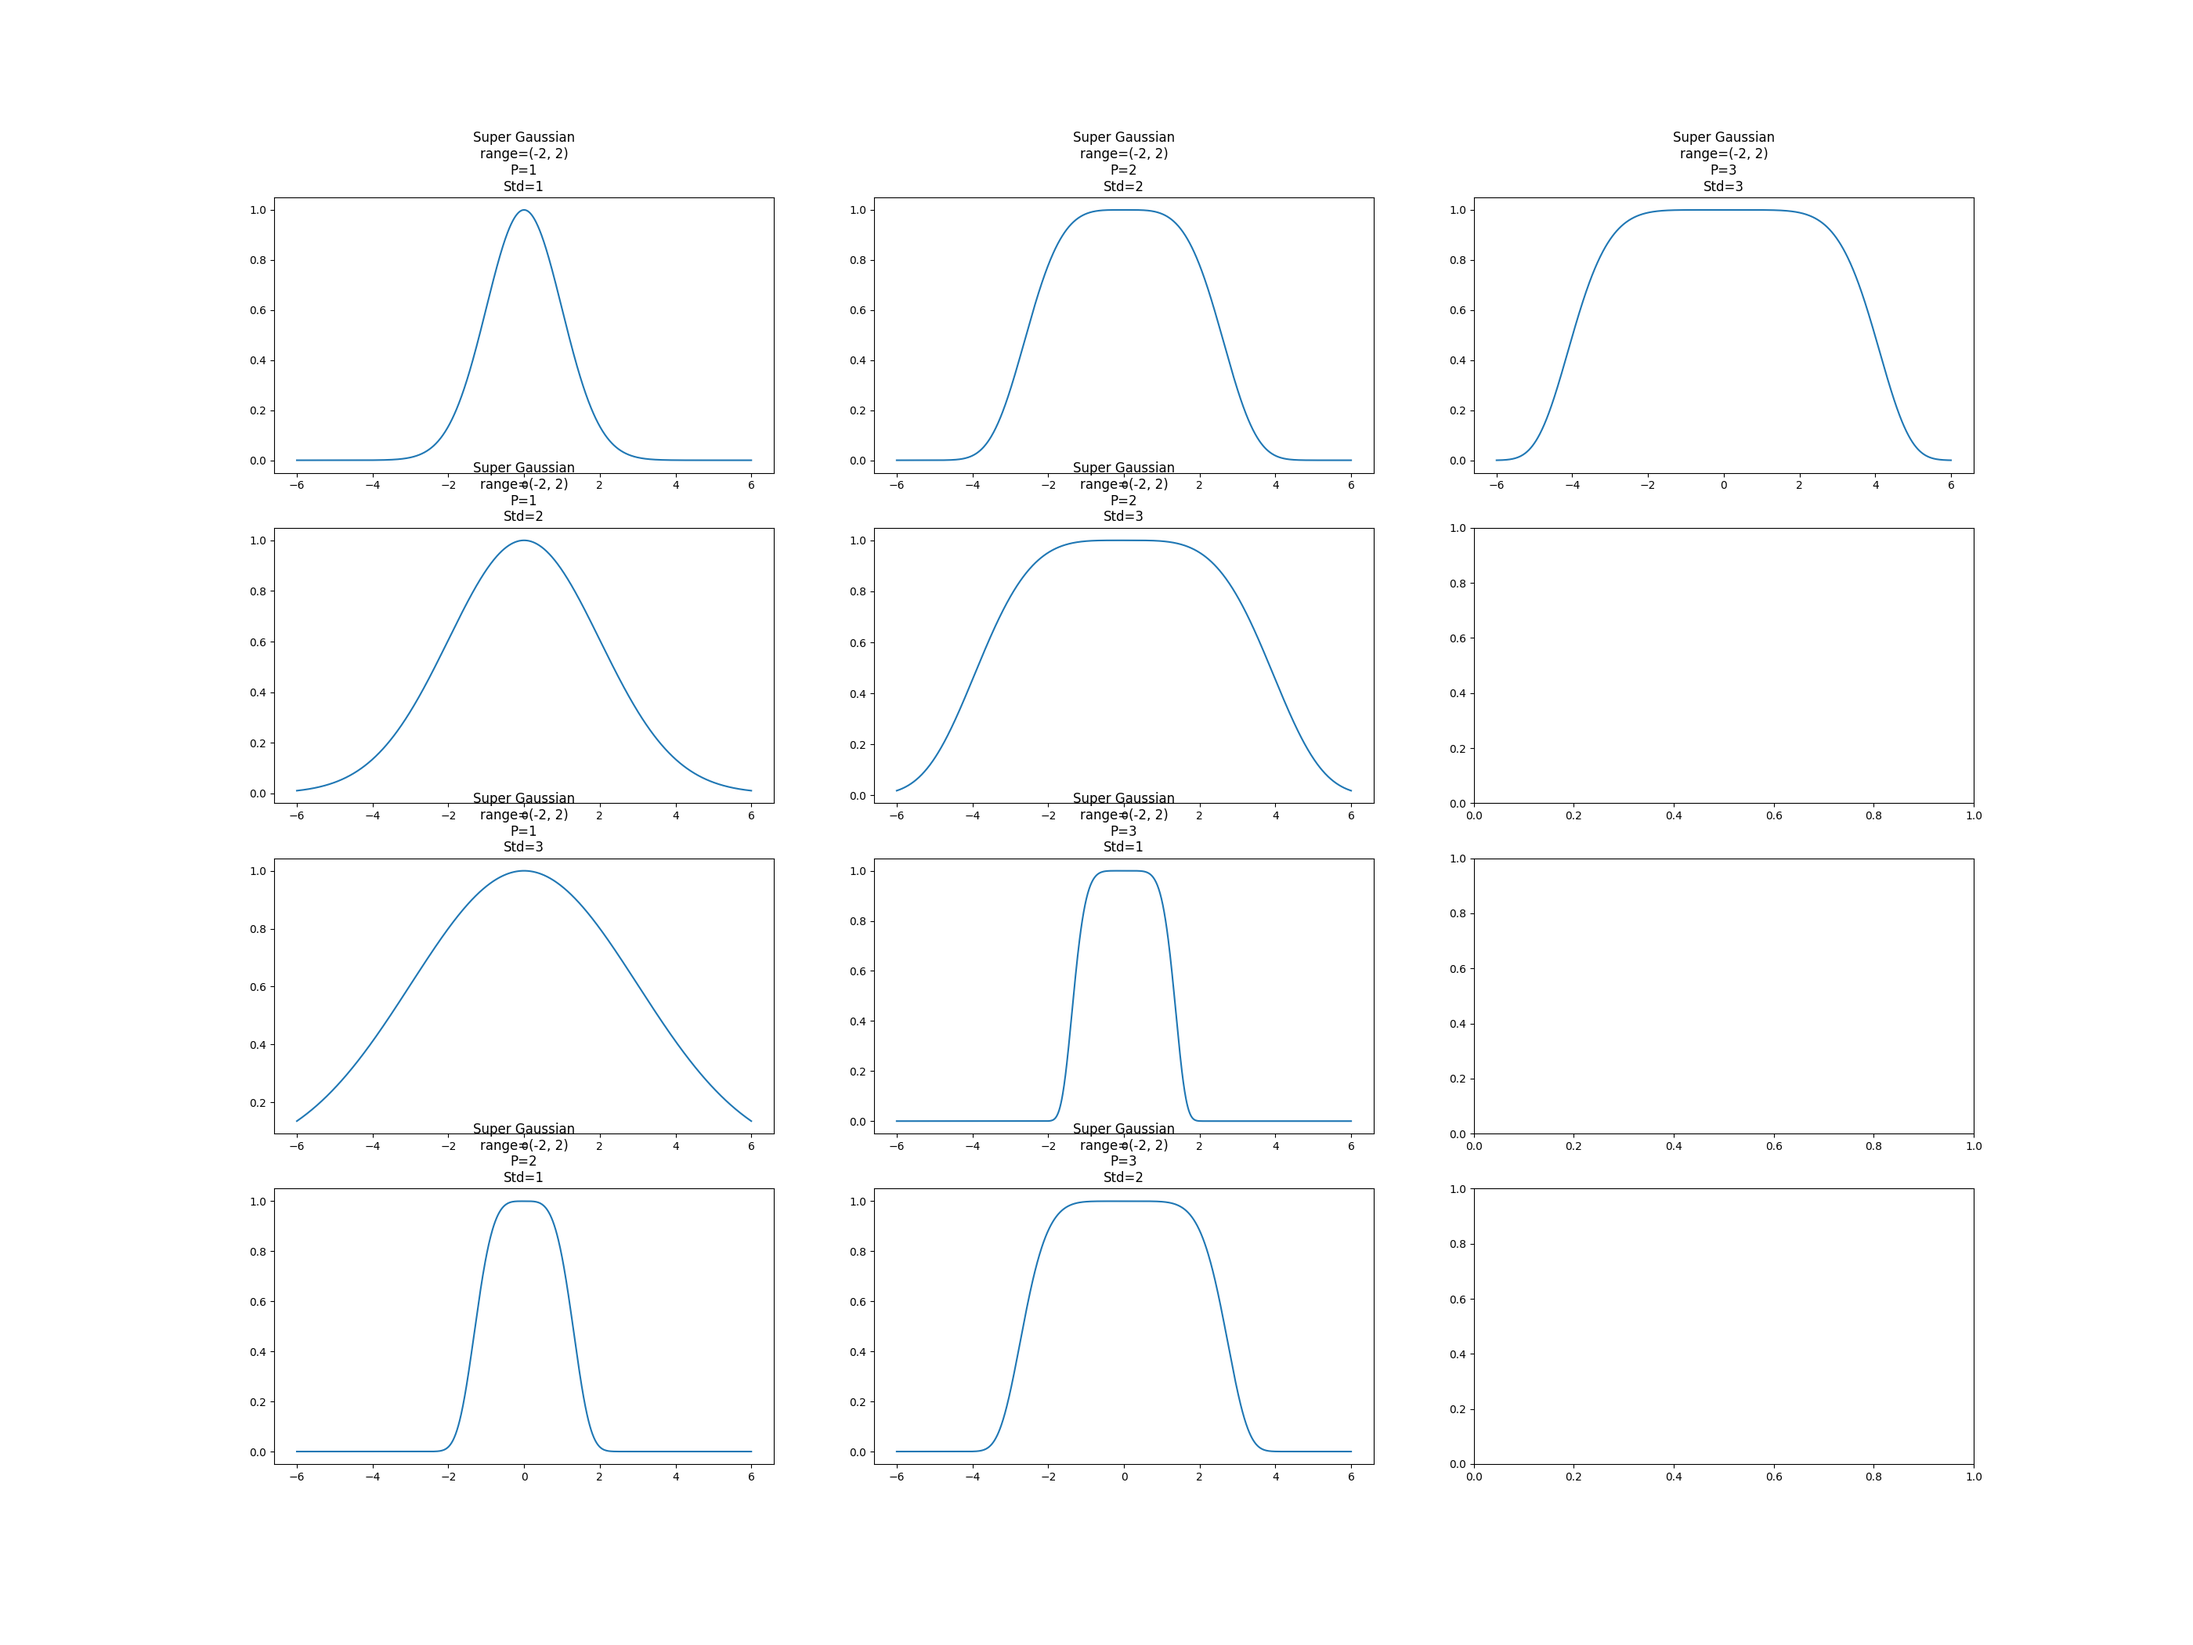
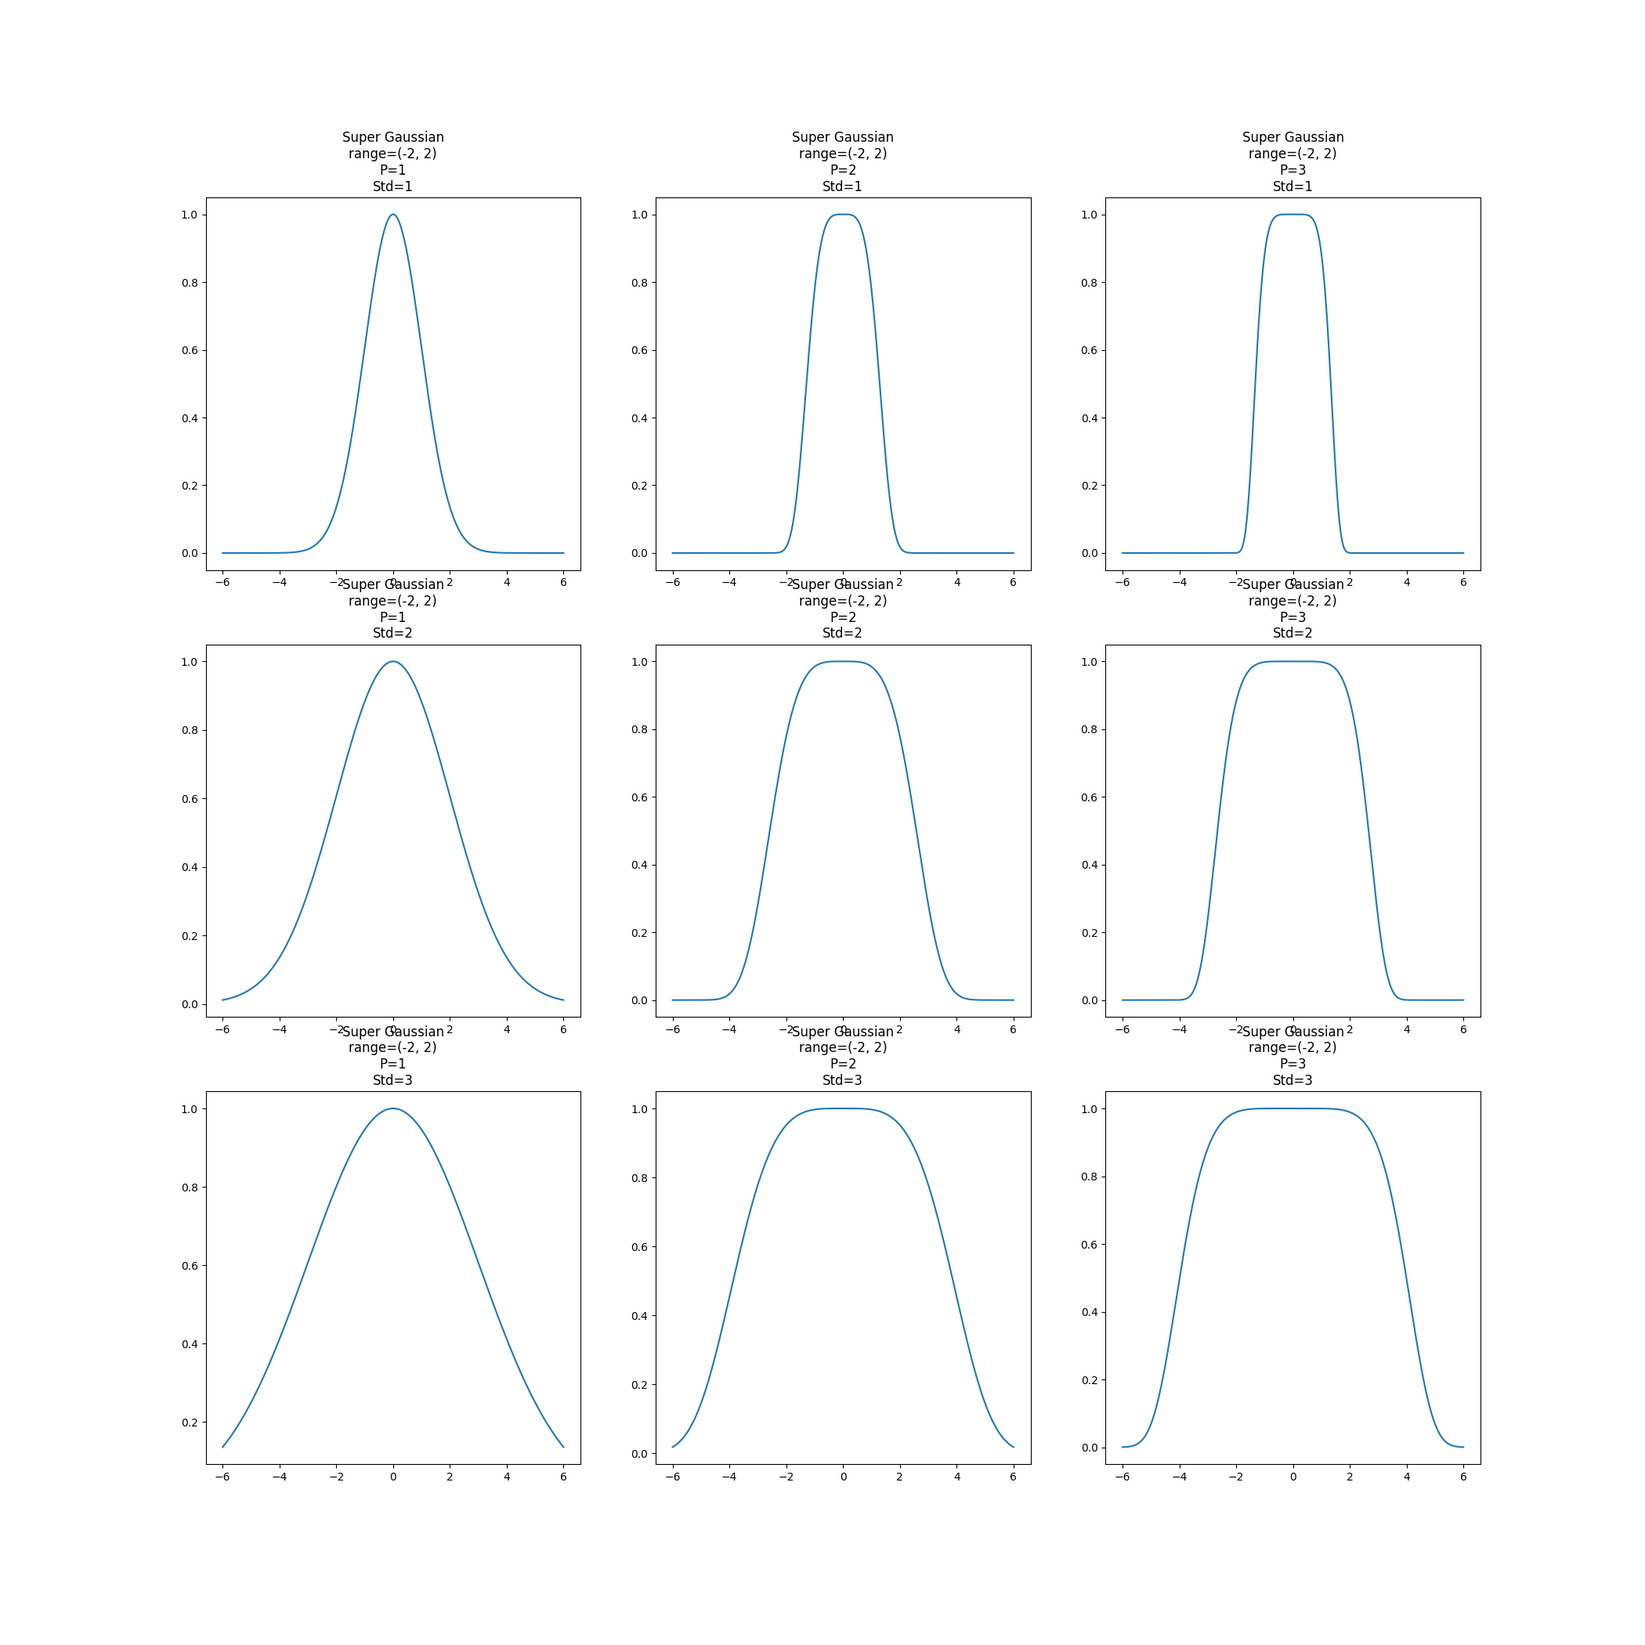
Fix 1-dimensional super gaussian distribution test

diff --git a/sg_test.py b/sg_test.py
@@ -11,7 +11,7 @@ if __name__ == '__main__':
     n_plots = len(x_pows) * len(x_stds) * len(coefs)
 
     n_cols = 3
-    n_rows = (n_plots // n_cols) + 1
+    n_rows = (n_plots // n_cols)
 
     figsize = (n_rows*7, n_cols*7)
     fig, ax = plt.subplots(n_rows, n_cols, figsize=figsize)
